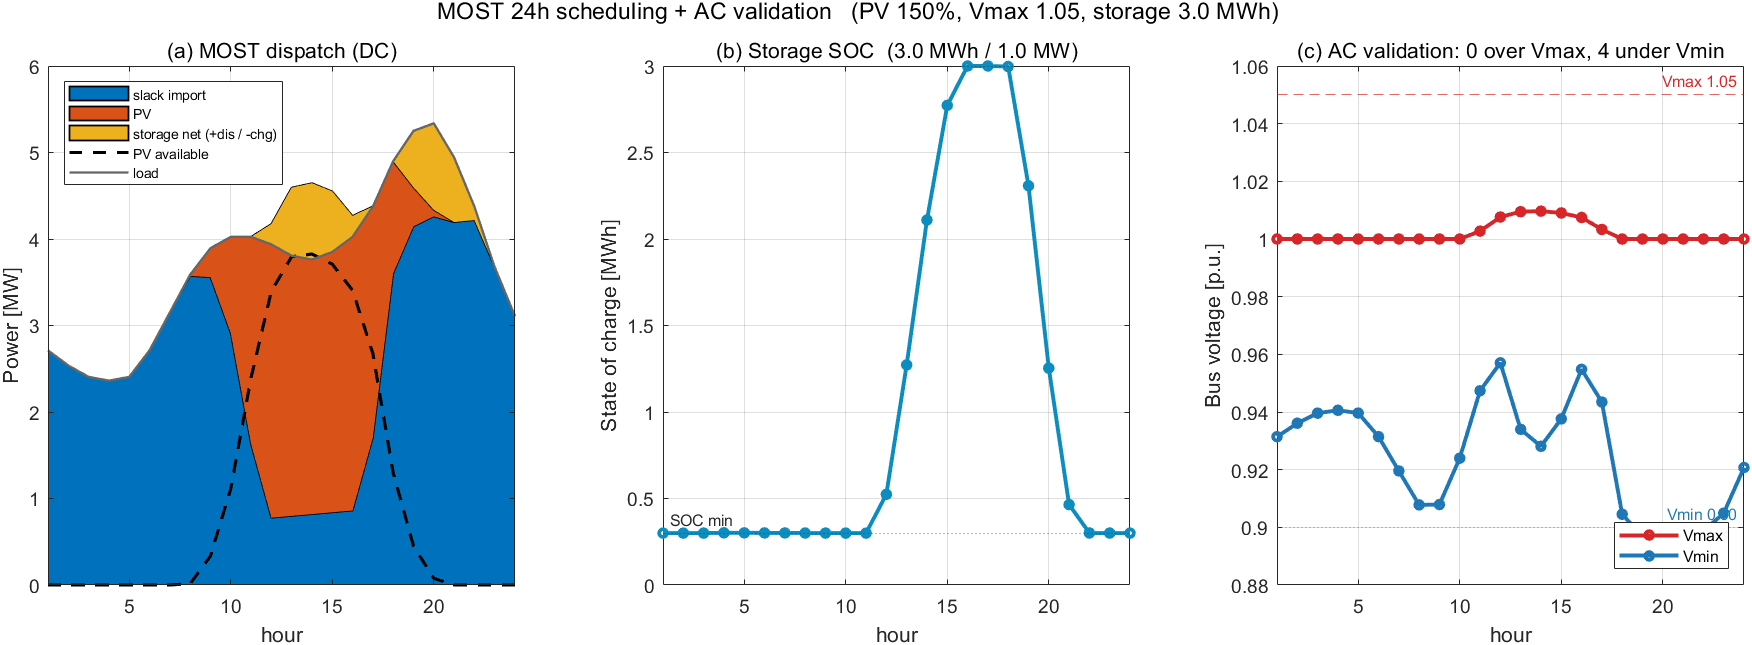
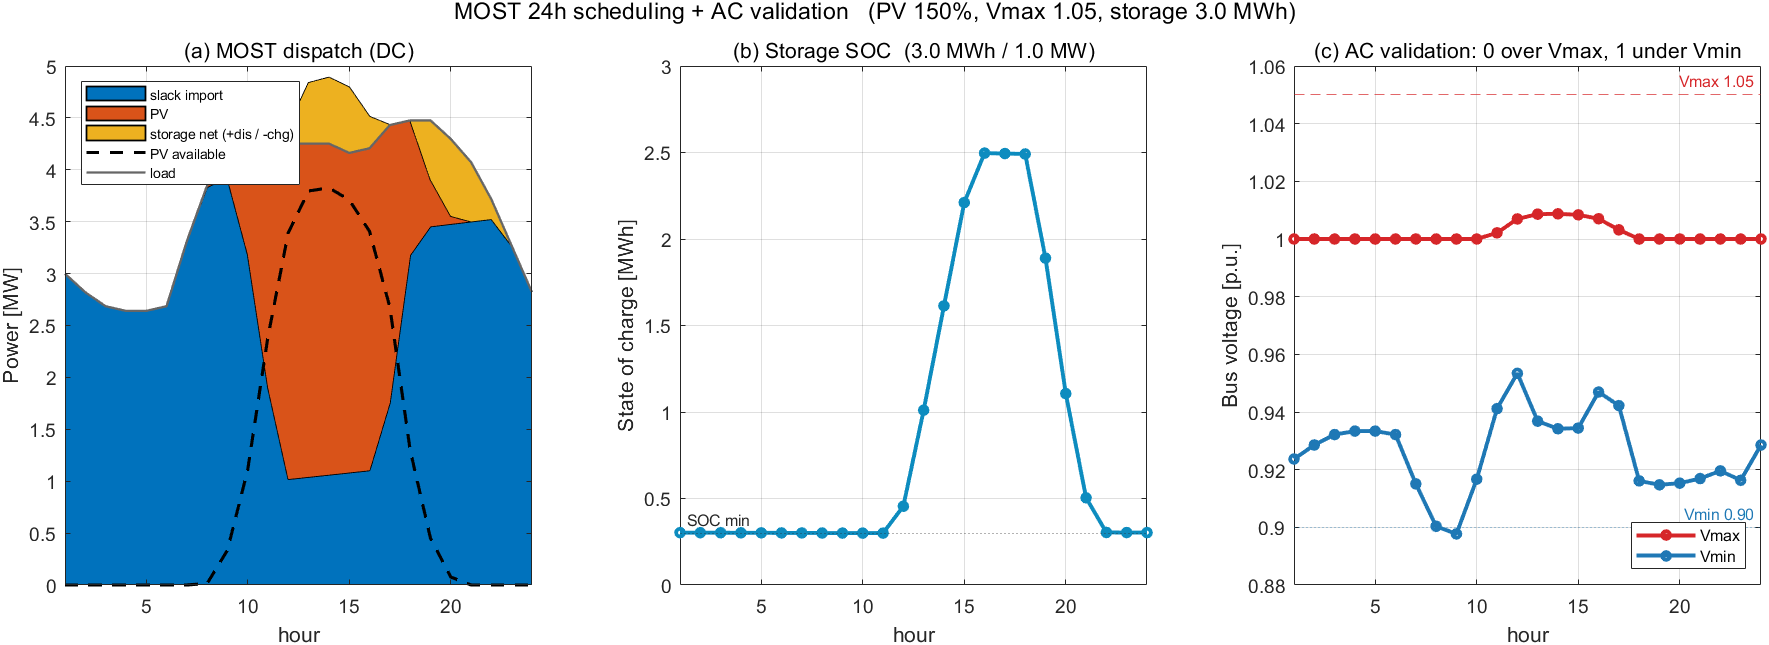
负荷曲线换用 IEEE RTS-79 标准曲线，并重跑受影响的阶段
把合成的日负荷曲线换成有出处、可复核的标准数据：

新增 bridge/make_load_profile.py —— 由 IEEE RTS-79（1979）Table 3
"Hourly peak load in percent of daily peak" 生成 24 点日负荷形状，
可选 6 种变体（冬/夏/春秋 × 工作日/周末），默认冬季工作日（晚高峰、
光伏已无出力，最难工况）。输出 data/load_profile.csv 与 variants。

重跑依赖日曲线的两个阶段（P2 渗透率扫描与 P3 调度用的是不随时间变的
基准负荷，不受影响）：

  P4 MOST 24h：越限时段 4 -> 1；储能吞吐 5.41 -> 4.39 MWh；
               SOC 上限 3.00 -> 2.50 MWh
  P5 三方对比：E[成本] 1741.9 -> 1280.3 $/day；切负荷 0.857 -> 0.000 MWh

DRO 的否定结论不变（三种策略差异仍 < 0.15%）。

顺带发现：负荷曲线的"峰均比"决定变电站容量上限会不会成为瓶颈 ——
合成曲线峰均比 1.44 会顶到 4.2 MW 上限并产生切负荷，RTS-79 冬季
峰均比 1.20 则不会。

diff --git a/bridge/make_load_profile.py b/bridge/make_load_profile.py
@@ -1,0 +1,118 @@
+# -*- coding: utf-8 -*-
+"""
+make_load_profile.py —— 由 IEEE RTS-79 标准数据生成日负荷曲线
+================================================================
+输出（写到 D:\\microgrid-dro\\data\\）：
+  load_profile.csv           当前生效的曲线（默认 = 冬季工作日）
+  load_profile.variants.csv  全部 6 种变体并排，供切换
+
+数据来源
+--------
+IEEE Committee Report, "IEEE Reliability Test System",
+IEEE Transactions on Power Apparatus and Systems, Vol. PAS-98, No. 6,
+pp. 2047-2054, Nov/Dec 1979.  （即 IEEE RTS-79）
+
+本项目用的是其中 Table 3：**每小时峰值占当日峰值的百分比**。
+对应原文的表述是 "Table 3: Hourly peak load in percent of daily peak"。
+
+为什么选它
+----------
+这是配电网/电力系统研究里最常被引用的日负荷曲线之一，**有明确出处、可复核**。
+上游光伏数据集只有光伏与气象列、没有负荷数据，所以负荷形状一直只能靠合成。
+换成这条曲线后，至少"形状"这一环有了可引用的依据。
+
+用法
+----
+    python make_load_profile.py                 # 写出冬季工作日版
+    python make_load_profile.py --variant summer_wd
+    python make_load_profile.py --list          # 列出所有变体
+"""
+import argparse
+import csv
+import os
+
+OUT_DIR = os.environ.get("MICROGRID_DRO_DATA", r"D:\microgrid-dro\data")
+
+# ------------------------------------------------------------------
+# IEEE RTS-79 Table 3：每小时峰值占当日峰值的百分比
+# 小时顺序为 1..24（对应原文的 12-1am ... 11-12pm）
+# ------------------------------------------------------------------
+RTS79_TABLE3 = {
+    #             h1  h2  h3  h4  h5  h6  h7  h8  h9 h10 h11 h12
+    #            h13 h14 h15 h16 h17 h18 h19 h20 h21 h22 h23 h24
+    "winter_wd":   [67, 63, 60, 59, 59, 60, 74, 86, 95, 96, 96, 95,
+                    95, 95, 93, 94, 99, 100, 100, 96, 91, 83, 73, 63],
+    "winter_we":   [78, 72, 68, 66, 64, 65, 66, 70, 80, 88, 90, 91,
+                    90, 88, 87, 87, 91, 100, 99, 97, 94, 92, 87, 81],
+    "summer_wd":   [64, 60, 58, 56, 56, 58, 64, 76, 87, 95, 99, 100,
+                    99, 100, 100, 97, 96, 96, 93, 92, 92, 93, 87, 72],
+    "summer_we":   [74, 70, 66, 65, 64, 62, 62, 66, 81, 86, 91, 93,
+                    93, 92, 91, 91, 92, 94, 95, 95, 100, 93, 88, 80],
+    "springfall_wd": [63, 62, 60, 58, 59, 65, 72, 85, 95, 99, 100, 99,
+                      93, 92, 90, 88, 90, 92, 96, 98, 96, 90, 80, 70],
+    "springfall_we": [75, 73, 69, 66, 65, 65, 68, 74, 83, 89, 92, 94,
+                      91, 90, 90, 86, 85, 88, 92, 100, 97, 95, 90, 85],
+}
+
+DESC = {
+    "winter_wd": "冬季工作日（晚高峰，光伏已无出力 —— 最难工况）",
+    "winter_we": "冬季周末",
+    "summer_wd": "夏季工作日（午后高峰，与光伏出力重叠）",
+    "summer_we": "夏季周末",
+    "springfall_wd": "春秋工作日（早晚双峰）",
+    "springfall_we": "春秋周末",
+}
+
+
+def normalize_shape(vals):
+    """把 24 个百分数转成日均 = 1.0 的形状系数（模型会再归一化一次）"""
+    f = [v / 100.0 for v in vals]          # 先转成"占当日峰值"的比例
+    m = sum(f) / len(f)
+    return [v / m for v in f]
+
+
+def write_one(path, shape, variant):
+    with open(path, "w", newline="", encoding="utf-8") as fp:
+        w = csv.writer(fp)
+        w.writerow(["hour", "load_pu"])
+        for h, v in enumerate(shape, 1):
+            w.writerow([h, "%.6f" % v])
+    print("已写出 %s  (%s)" % (path, DESC[variant]))
+
+
+def write_variants(path, shapes):
+    with open(path, "w", newline="", encoding="utf-8") as fp:
+        w = csv.writer(fp)
+        w.writerow(["hour"] + list(shapes.keys()))
+        for h in range(24):
+            w.writerow([h + 1] + ["%.6f" % shapes[k][h] for k in shapes])
+    print("已写出 %s  （6 种变体并排，供切换）" % path)
+
+
+def main():
+    ap = argparse.ArgumentParser()
+    ap.add_argument("--variant", default="winter_wd", choices=list(RTS79_TABLE3.keys()))
+    ap.add_argument("--list", action="store_true")
+    args = ap.parse_args()
+
+    if args.list:
+        print("可选变体：")
+        for k, d in DESC.items():
+            print("  %-16s %s" % (k, d))
+        return
+
+    shapes = {k: normalize_shape(v) for k, v in RTS79_TABLE3.items()}
+    os.makedirs(OUT_DIR, exist_ok=True)
+
+    write_one(os.path.join(OUT_DIR, "load_profile.csv"), shapes[args.variant], args.variant)
+    write_variants(os.path.join(OUT_DIR, "load_profile.variants.csv"), shapes)
+
+    s = shapes[args.variant]
+    print("\n本次生效曲线的特征：")
+    print("  峰值出现在第 %d 小时，峰谷比 %.2f" % (s.index(max(s)) + 1, max(s) / min(s)))
+    print("  日均 = %.4f（模型会再归一化，无需手工调整）" % (sum(s) / len(s)))
+    print("\n注意：换曲线会改变承载力、网损最低点、鲁棒优化等结论，需重跑 P2~P5 并对比。")
+
+
+if __name__ == "__main__":
+    main()

diff --git a/docs/项目说明.md b/docs/项目说明.md
@@ -357,13 +357,19 @@ matlab -batch "cd('src'); plot_overview"
 ### 9.3 一个否定结果
 
 分布鲁棒优化（考虑"预测本身可能不准"）与普通随机优化、甚至只用中位数预测的
-确定性方法相比，**样本外表现差异小于 0.15%**。
+确定性方法相比，**样本外表现差异小于 0.15%**（换用 IEEE RTS-79 负荷曲线后重跑，
+结论不变：三种策略的期望成本分别是 1280.3 / 1280.5 / 1280.5 美元/天）。
 
 机制是对的（鲁棒半径从 0.05 加到 1.0，场景间成本离散度从 92.5 单调收缩到 0），
 但**收益可忽略**。原因是储能杠杆太小（3 MWh 对 89 MWh/天的负荷）、
 不确定性温和（光伏日电量只波动 ±12%）。
 
 **结论：这个系统不需要鲁棒优化。** 这是系统的性质，不是方法的问题。
+
+> **顺带发现（换负荷曲线带来的）**：负荷曲线的**峰均比**决定变电站容量上限会不会成为瓶颈。
+> 原来那条合成曲线峰均比 1.44，会顶到 4.2 MW 的变电站上限，产生 0.857 MWh 切负荷；
+> 换成 RTS-79 冬季（峰均比 1.20）后切负荷降到 **0**。
+> 这提醒我们：**负荷曲线的形状不只是"好看"，它会直接决定哪个约束先出问题。**
 
 ---
 
@@ -373,7 +379,7 @@ matlab -batch "cd('src'); plot_overview"
 
 | # | 限制 | 影响 | 怎么改 |
 |---|---|---|---|
-| 1 | **负荷曲线是合成的** —— 上游数据集只有光伏和气象列，没有负荷数据 | ★★★ 最大短板。拿结论做定量分析前必须先换 | 接入真实负荷数据 |
+| 1 | ~~负荷曲线是合成的~~ **已改用 IEEE RTS-79 标准曲线** | — | 已完成。仍有进一步空间：换成**本地区实测**的日负荷曲线会更贴合 |
 | 2 | 光伏场景**空间完全相关**（一条曲线盖住全部 4 个节点） | ★★★ 会直接影响鲁棒优化的结论 | 各节点独立采样，或引入相关系数 |
 | 3 | 光伏预测只取了**中位数**一个点 | ★★ 浪费了概率预测的信息 | 用完整分布做多阶段决策 |
 | 4 | 电价是合成的分时电价 | ★★ 影响储能的套利行为 | 用真实电价 |
